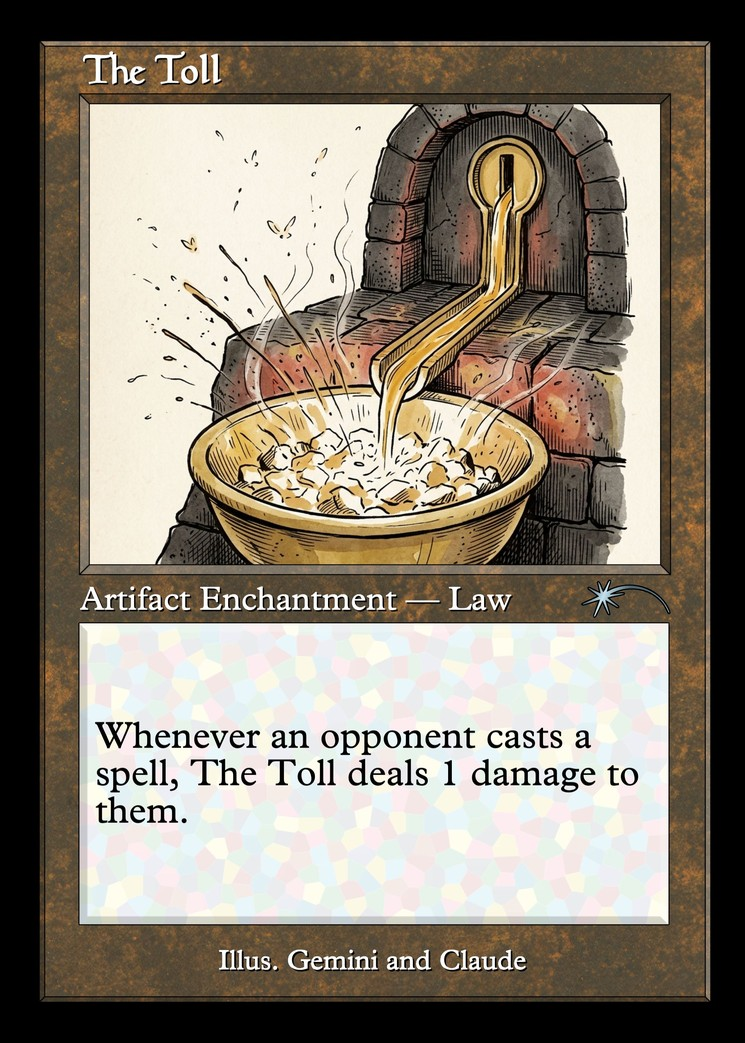
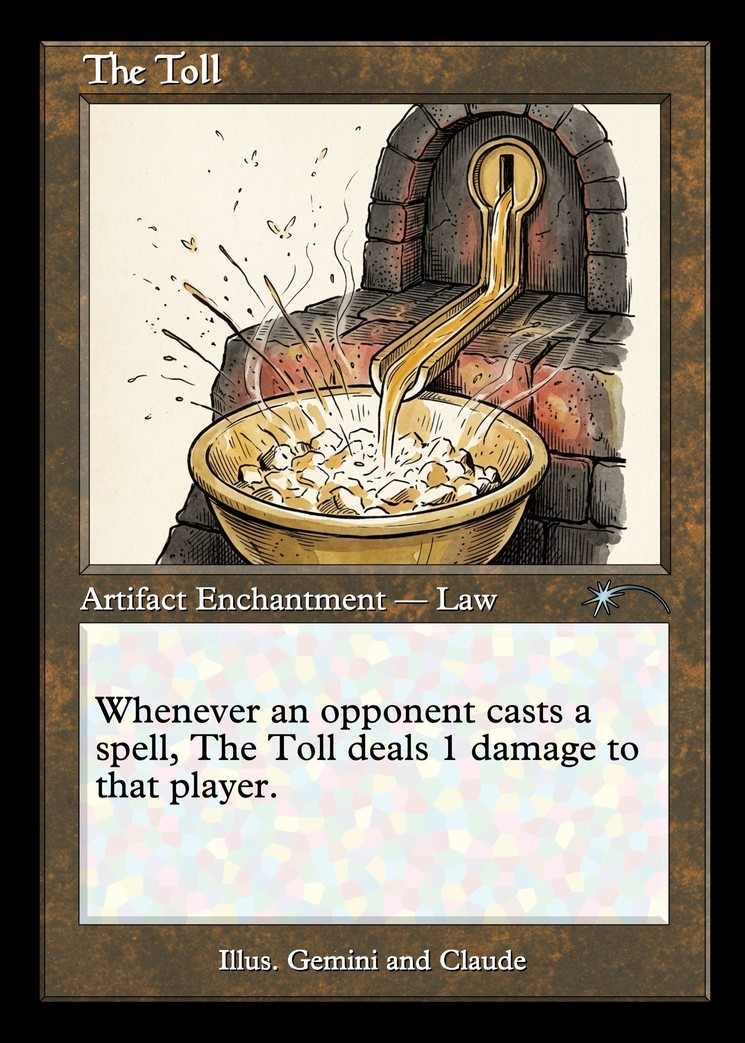
The Toll's corrected face installed (word-for-word); Drana's corrected face held again — it reads −X/−0 where the oracle is −0/−X; manifest + handoff.

Changed region(s): [[0.1235, 0.6443, 0.8644, 0.7977], [0.1235, 0.5523, 0.5557, 0.5829], [0.5866, 0.5523, 0.6792, 0.5829]]

diff --git a/handoff.md b/handoff.md
@@ -94,7 +94,7 @@ Reported and **confirmed** — the hypothesis was exactly right. The r9 multiset
 
 ## Post-session (Chris's art round, 2026-09-26): twelve real cards in our art, seventeen faces
 
-Chris delivered card art (his Gemini pipeline) for **Restoration Angel, Drana, Kalastria Bloodchief and the ten ABU duals**, plus as-printed faces for those twelve and for **the five laws**. Installed: the art as 5:4 crops (the house 35% bias) at 1024×819 in `assets/generated/card-art/<id>.png` + `packages/ui/public/custom-art/` (Chris's full-size sources stay beside them as `<id>.jpeg`); the faces at 745px in `assets/generated/printed/` + `packages/ui/public/printed-art/`; the defs carry `art.asset` (the twelve) and `printedAsset` (sixteen). **Two code changes**: (1) **ADR-082 amended** — a REAL card may carry a `printedAsset` (its face replaces the Scryfall scan on printed surfaces) and a real card with `art.asset` wears OUR art in the frame, the hand frame and the tiles (`CardFrame`, `CardTile`, `Gallery`'s strip; the Scryfall derivatives stay for every other real card); (2) the printed toggle (the inspector, the rail, the gallery modal) now offers a custom face too — the laws' and the legends' faces were reachable only through the gallery's "printed scans" before. Verified word-for-word against the oracle/defs: **sixteen clean**; **Drana's face is HELD** — it prints "Target creature**s** gets −0/−X" (the oracle: "Target creature gets"); her art is installed, the Scryfall scan stays her printed view until a corrected render (ledgered HELD). One wording note, installed as is: the Toll's face says "deals 1 damage to **them**" where the def says "to that player" (same meaning; the S42a precedent accepted a face that omits the def's reminder text). Walked in the gallery: Tundra in our frame with the new art and as its face; the Toll's face and its toggle.
+Chris delivered card art (his Gemini pipeline) for **Restoration Angel, Drana, Kalastria Bloodchief and the ten ABU duals**, plus as-printed faces for those twelve and for **the five laws**. Installed: the art as 5:4 crops (the house 35% bias) at 1024×819 in `assets/generated/card-art/<id>.png` + `packages/ui/public/custom-art/` (Chris's full-size sources stay beside them as `<id>.jpeg`); the faces at 745px in `assets/generated/printed/` + `packages/ui/public/printed-art/`; the defs carry `art.asset` (the twelve) and `printedAsset` (sixteen). **Two code changes**: (1) **ADR-082 amended** — a REAL card may carry a `printedAsset` (its face replaces the Scryfall scan on printed surfaces) and a real card with `art.asset` wears OUR art in the frame, the hand frame and the tiles (`CardFrame`, `CardTile`, `Gallery`'s strip; the Scryfall derivatives stay for every other real card); (2) the printed toggle (the inspector, the rail, the gallery modal) now offers a custom face too — the laws' and the legends' faces were reachable only through the gallery's "printed scans" before. Verified word-for-word against the oracle/defs: **sixteen clean**; **Drana's face is HELD** — it prints "Target creature**s** gets −0/−X" (the oracle: "Target creature gets"); her art is installed, the Scryfall scan stays her printed view until a corrected render (ledgered HELD). The Toll's face was re-delivered the same day with the def's wording ("to that player") and re-installed. **Drana's corrected face is held again**: it now prints "Target creature gets **−X/−0**" — the oracle is "−0/−X" (it shrinks toughness, not power); the Scryfall scan stays her printed view until a face reads "−0/−X". Walked in the gallery: Tundra in our frame with the new art and as its face; the Toll's face and its toggle.
 
 ## Registry entries added/changed
 
